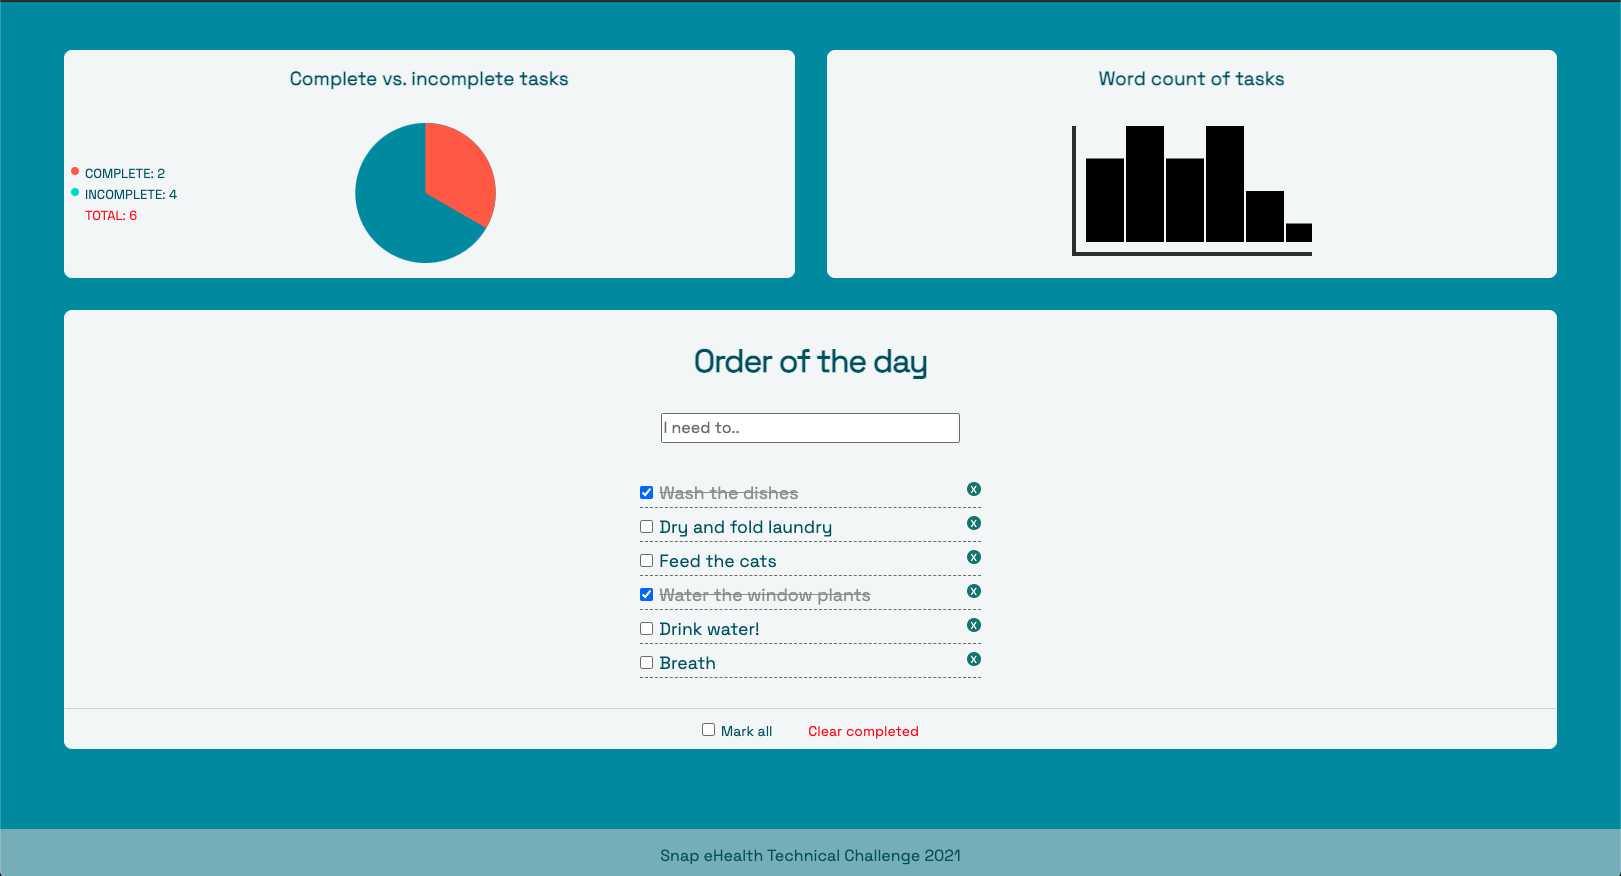
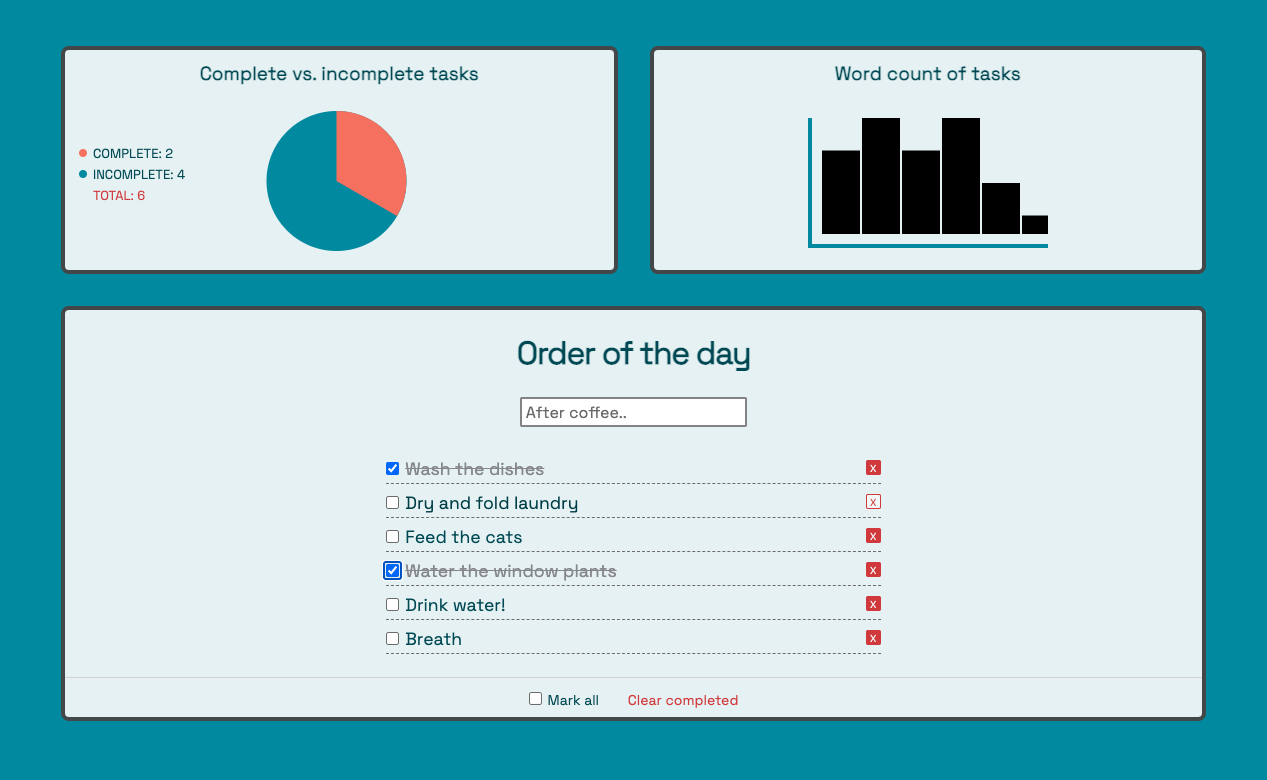
final touches

diff --git a/public/css/style.css b/public/css/style.css
@@ -1,18 +1,16 @@
-@import url('https://fonts.googleapis.com/css2?family=Raleway&display=swap');
 @import url('https://fonts.googleapis.com/css2?family=Raleway&family=Space+Grotesk&display=swap');
 
 :root {
-  --active: turquoise;
-  --complete: tomato;
-  --bar: #333;
+  --active: rgb(36, 148, 171);
+  --complete: rgb(240, 123, 102);
+  --bar: rgba(0, 0, 0, 0.7);
   --fullwidth: 100%;
-  --loud: red;
-  --deleteBtn: rgb(43, 128, 119);
-  /* --primary: #4555a4; */
-  --primary: rgb(20, 91, 106);
+  --loud: rgb(206, 63, 63);
+  --deleteBtn: rgb(36, 148, 171);
+  --primary: rgb(20, 83, 96);
+  --hover: rgb(15, 71, 82);
   --secondary: #595f80;
-  --ltBackground: rgb(244, 247, 247);
-  /* --dkBackground: rgba(32, 132, 152, 0.7); */
+  --ltBackground: rgba(245, 249, 249, 0.94);
   --dkBackground: rgb(36, 148, 171);
 }
 
@@ -20,7 +18,6 @@
   padding: 0; 
   margin: 0; 
   box-sizing: border-box; 
-  /* font-family: 'Raleway', sans-serif; */
   font-family: 'Space Grotesk', sans-serif;
 } 
   
@@ -30,10 +27,14 @@ body {
   color: var(--primary);
 } 
 
+.header {
+  width: 100%;
+}
+
 .content {
   margin: 2rem 2rem 0 2rem;
   min-height: 100%;
-  min-height: calc(100vh - 80px);
+  min-height: calc(100vh - 70px);
 }
 
 .banner {
@@ -49,19 +50,17 @@ body {
   border: 1px solid var(--ltBackground);
   background: var(--ltBackground);
   border-radius: 8px;
-}
-
-.header {
-  width: 100%;
+  border: 4px solid var(--bar);
 }
 
 .main {
+  display: flex;
   align-items: center;
   justify-content: center;
 }
 
 .todo-list {
-  min-width: 400px;
+  min-width: 540px;
   align-items: center;
   font-size: 1.1rem;
 }
@@ -88,8 +87,18 @@ h4 {
   justify-content: center;
   width: 20%;
   height: 30px;
-  margin: 2px 0 2px 40%; 
+  margin: 2px 0 0 40%; 
+  padding-left: 4px;
   font-size: 1rem; 
+  border: 2px solid rgb(143, 141, 141);
+  border-radius: 2px;
+}
+
+.edit {
+  min-width: 120px;
+  height: 30px;
+  padding-left: 2px;
+  margin: 2px 0 0 0; 
 }
   
 ul { 
@@ -99,7 +108,7 @@ ul {
 } 
   
 li:hover{ 
-  color: #1f2d72; 
+  color: var(--hover); 
   cursor: pointer; 
 }
 
@@ -110,33 +119,28 @@ input.toggle-all, .toggle {
 
 li.completed {
   text-decoration: line-through;
-  color: #999;
+  color: rgb(145, 146, 152);
 }
 
 button.destroy {
   font-size: 10px;
   float: right;
-  color: #fff;
-  background: var(--deleteBtn);
-  width: 14px;
-  height: 14px;
-  border: none;
+  color: var(--ltBackground);
+  background: var(--loud);
+  border: 1px solid var(--loud);
+  width: 15px;
+  height: 15px;
   margin-left: 1rem;
-  margin-top: 6px;
-  padding-top: 1px;
-  border-radius: 50%;
+  margin-top: 8px;
+  padding: 1px 0 2px 0;
+  border-radius: 2px;
 }
 
 .destroy:hover {
-  background: rgb(168, 60, 60);
-}
-
-.main {
-  display: flex;
-}
-
-span.toggle {
-  /* float: right; */
+  color: var(--loud);
+  background: var(--ltBackground);
+  transition: background-color 0.5s;
+  cursor: pointer;
 }
 
 .view {
@@ -161,41 +165,38 @@ button.clear-completed {
 }
 
 .clear-completed:hover {
-  color: #1f2d72;
+  color: var(--hover);
 }
 
 /* PIECHART */
 
 .pie-chart {
   width: 50%;
-  /* height: 100%; */
   display: flex;
   margin: 1rem 1rem 1rem 2rem;
-  border: 1px solid var(--ltBackground);
   background: var(--ltBackground);
   border-radius: 8px;
   flex-direction: column;
   align-content: center;
-}
+  border: 4px solid var(--bar);}
 
 .pie {
   width: 33%;
-  margin-top: 18px;
+  margin-top: 14px;
 }
 
 .pie-count {
   width: 33%;
   float: left;
-  margin-top: 58px;
+  margin-top: 46px;
+  padding-left: 8px;
 }
 
 #keyC, #keyX, #key {
   float: left;
   width: 8px;
   height: 8px;
-  margin: 4px 6px 0 6px;
-  /* -webkit-border-radius: 25px;
-  -moz-border-radius: 25px; */
+  margin: 6px 6px 0 6px;
   border-radius: 25px;
 }
 
@@ -224,17 +225,17 @@ button.clear-completed {
   flex-direction: column;
   width: 50%;
   margin: 1rem 2rem 1rem 1rem;
-  border: 1px solid var(--ltBackground);
   background: var(--ltBackground);
   border-radius: 8px;
+  border: 4px solid var(--bar);
 }
 
 .bar {
   margin: auto;
   margin-top: auto;
   padding: auto;
-  border-left: 4px solid var(--bar);
-  border-bottom: 4px solid var(--bar);
+  border-left: 4px solid var(--dkBackground);
+  border-bottom: 4px solid var(--dkBackground);
   padding-left: 10px;
   padding-bottom: 10px;
 }
@@ -242,10 +243,41 @@ button.clear-completed {
 /* FOOTER */
 
 .footer {
+  color: var(--primary);
   text-align: center;
-  background: rgba(179, 197, 201, 0.7);
-  padding: 16px 0 8px 0;
-  height: 50px;
+  background: rgba(29, 118, 136, 0.4);
+  padding: 10px 0 8px 0;
+  height: 40px;
 }
 
 
+@media only screen and (max-width: 770px) {
+  body {
+    background-color: lightblue;
+  }
+
+  .pie-count {
+    display: none;
+  }
+
+  .pie {
+    width: 100%;
+  }
+
+  .todo-list {
+    min-width: 90%;
+    align-items: center;
+    font-size: 1rem;
+  }
+
+  .new-todo {
+    width: 80%;
+    margin: auto;
+    justify-content: center;
+    margin-left: 10%;
+  }
+
+  .bar {
+    border: none;
+  }
+}
